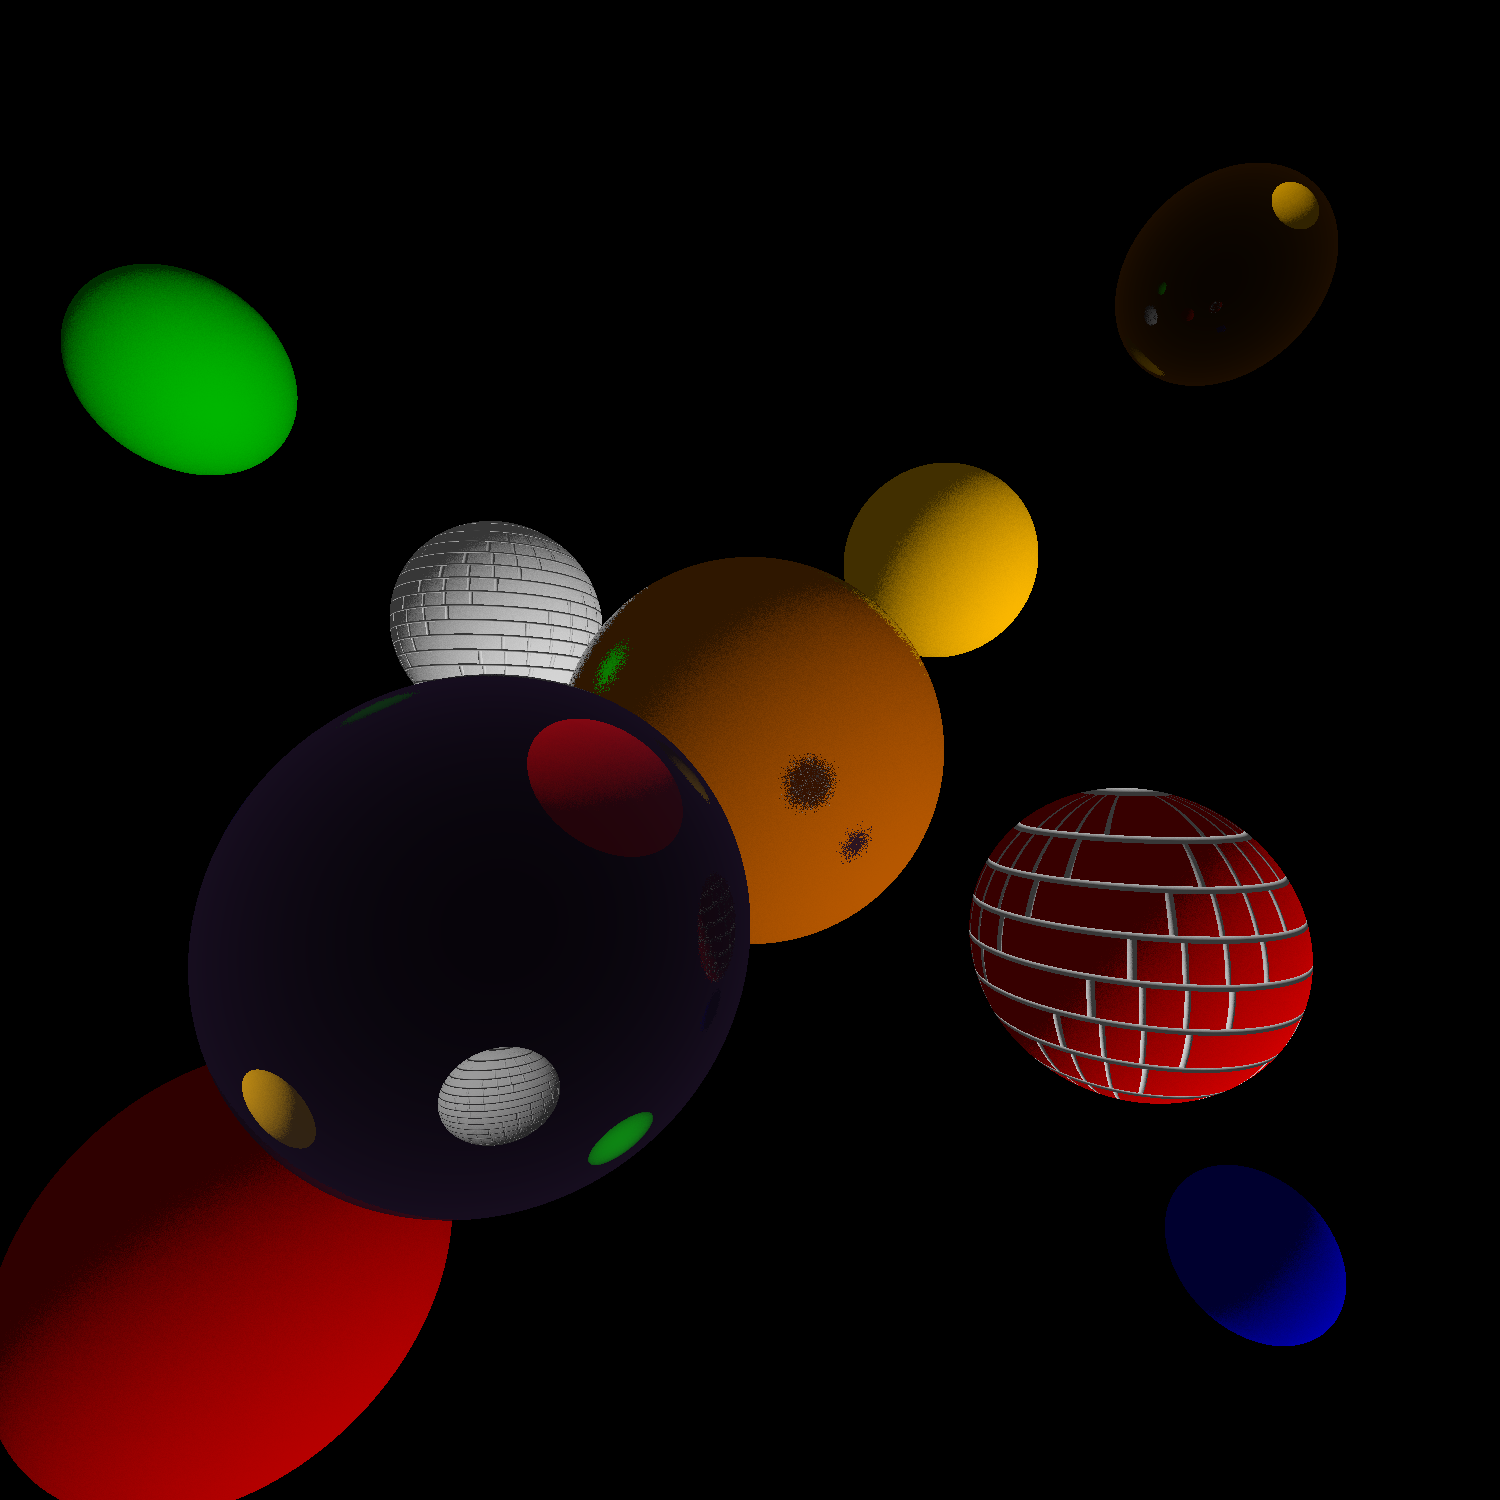
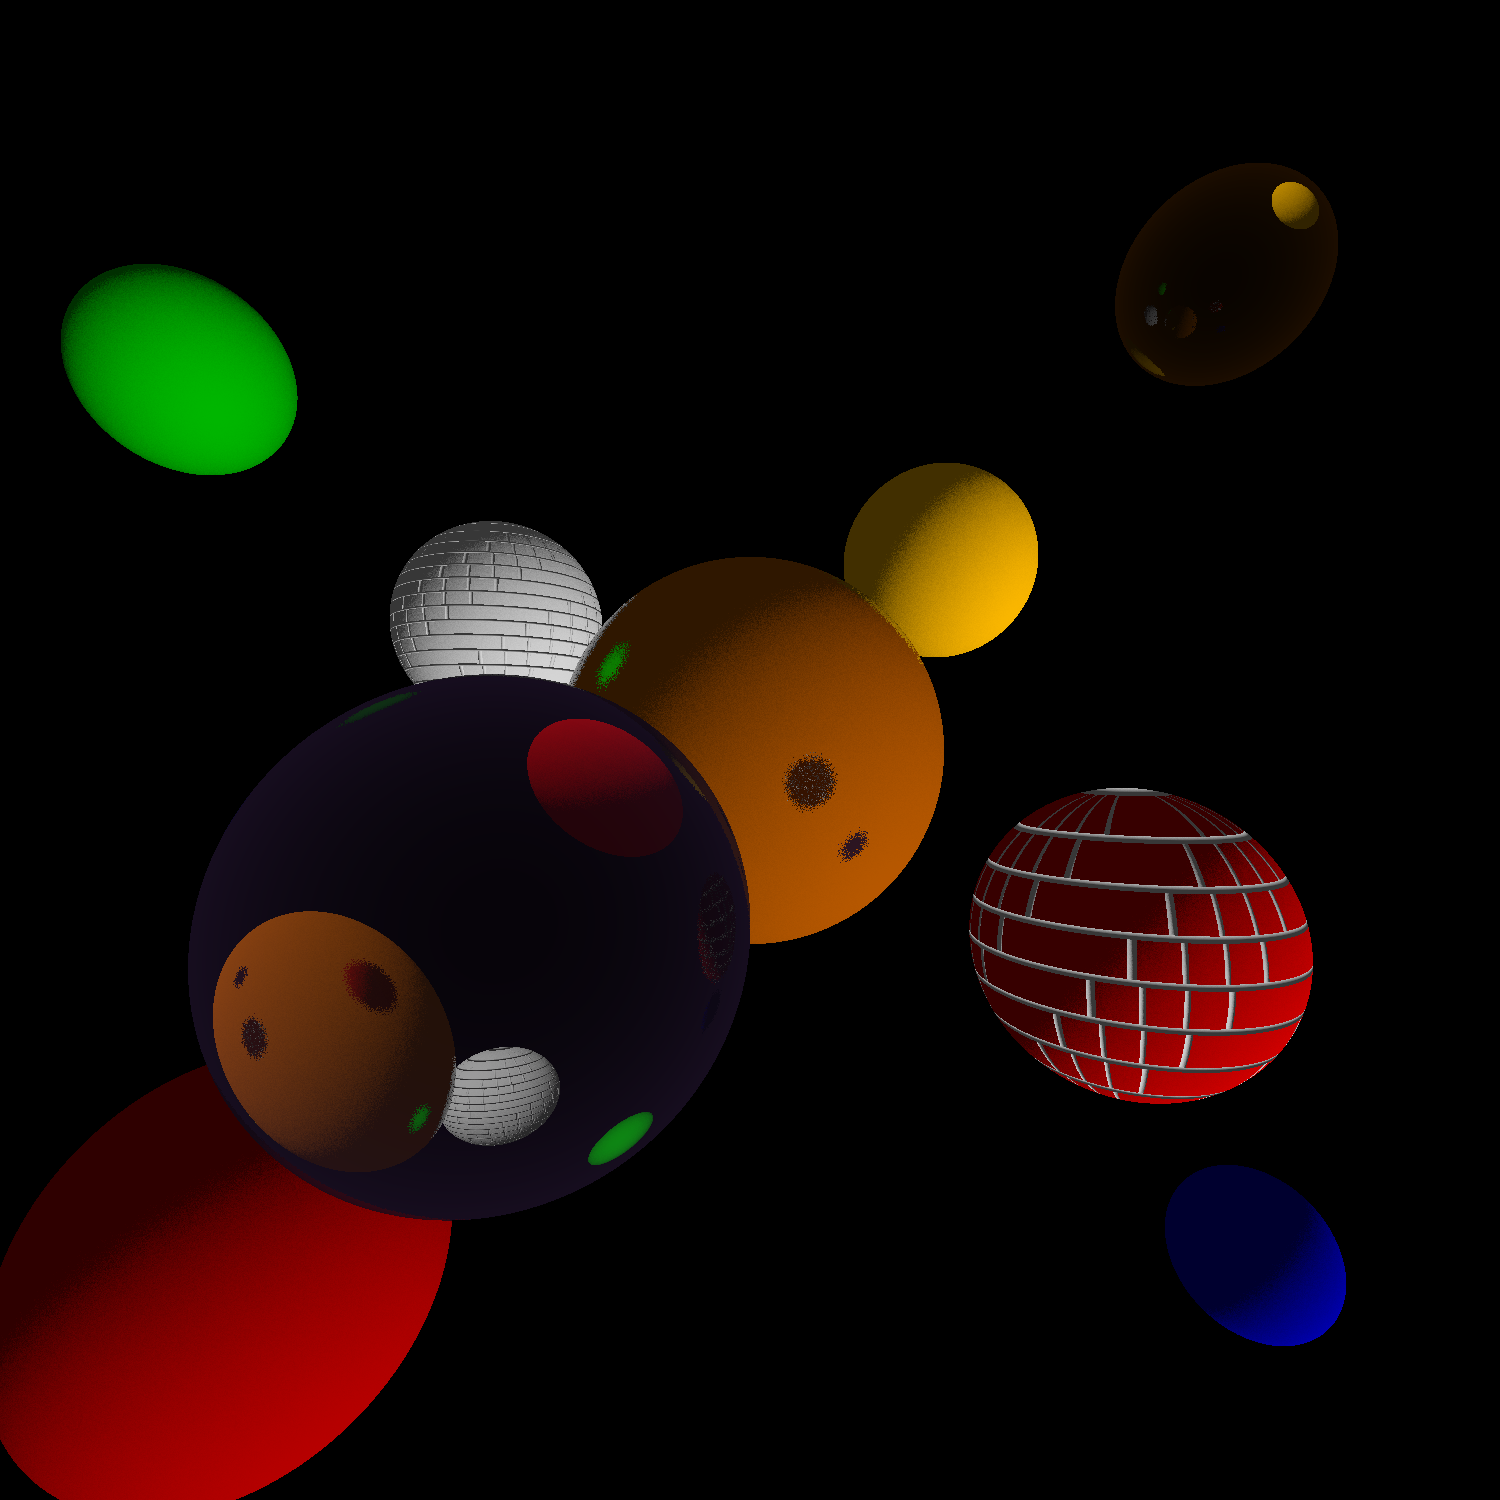
combined rendering of opaque scene to harness the power of love

diff --git a/src/cgg/a02/RayTracer.java b/src/cgg/a02/RayTracer.java
@@ -72,6 +72,18 @@ public class RayTracer implements Sampler
 		return hit;
 	}
 
+	private Hit processOpaqueScene(Ray ray)
+	{
+		Hit __Hit = processScene(ray);
+		Hit __Proc = scene.reflector().intersect(ray);
+		if (__Proc!=null&&recentSurfaceHit(__Hit,__Proc))
+		{
+			__Proc.overwriteColour(shadeReflective(ray,__Proc));
+			return __Proc;
+		}
+		return __Hit;
+	}
+
 	private Hit iterateSpheres(ArrayList<Sphere> spheres,Ray ray)
 	{
 		Hit hit = null;
@@ -123,7 +135,7 @@ public class RayTracer implements Sampler
 	{
 		// calculate reflective bouncing ray
 		Vec3 __OutBounce = bounce(ray.direction(),hit.normal());
-		__OutBounce = randomRoughness(__OutBounce,10);
+		__OutBounce = randomRoughness(__OutBounce,7);
 		Ray __Ray = new Ray(hit.position(),__OutBounce,0,10000);
 
 		// receive colour source & combine
@@ -145,14 +157,12 @@ public class RayTracer implements Sampler
 		Color __MatColour = multiply(hit.colour(),.1*fresnel_mod);
 
 		// receive colour source & combine
-		Hit __HitThrough = processScene(__RayThrough);
-		Hit __HitBounce = processScene(__RayBounce);
+		Hit __HitThrough = processOpaqueScene(__RayThrough);
+		Hit __HitBounce = processOpaqueScene(__RayBounce);
 		__MatColour = (__HitThrough!=null) ? __MatColour.mix(__HitThrough.colour()) : __MatColour;
 		__MatColour = (__HitBounce!=null) ? __MatColour.mix(__HitBounce.colour(),.1) : __MatColour;
 		return __MatColour;
 	}
 
 	// TODO: semi-transparent volumetric gas spheres in background
-	// TODO: concaving glass balls
-	// TODO: rough spheres
 }
